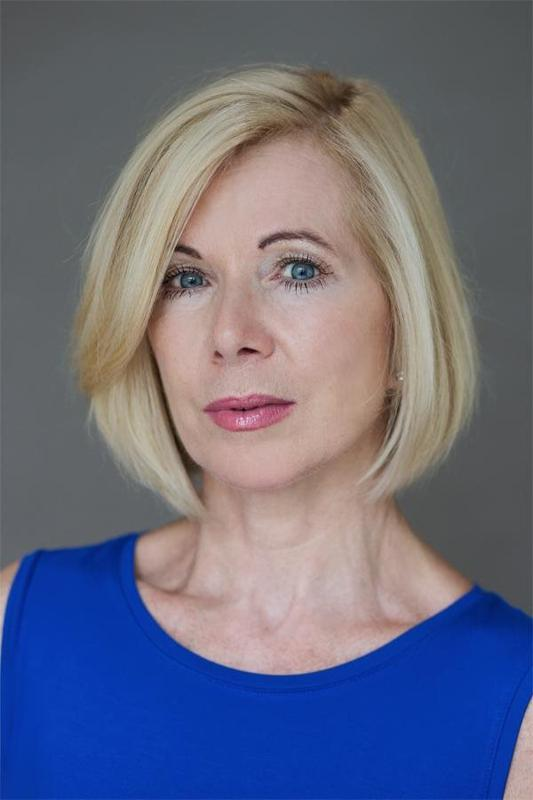
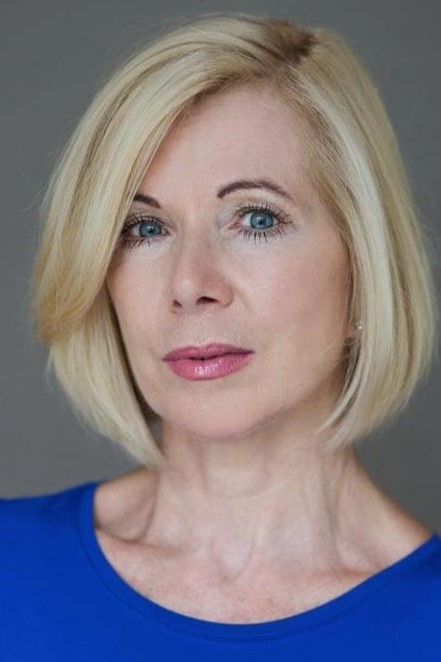
Resize hero image in about section

diff --git a/index.html b/index.html
@@ -44,11 +44,11 @@
 
         <!--First image-->
         <div id="hero-image">
-          <img src="assets/images/Joan Fleetwood blue.jpg" alt=" headshot of Joan Fleetwood in a blue dress">
+          <img id="blue-headshot" src="assets/images/Joan Fleetwood blue.jpg" alt=" headshot of Joan Fleetwood in a blue dress">
         </div>
 
         <!--About paragraph-->
-        <div id="about">
+        <div id="intro">
           <h3>About</h3>
           <p>My acting age is 45-55. I am slim with blonde hair, blue eyes and I'm 5 ft. 5 inches.
             I have trained extensively for the last six years. For three years I've been training with Robbie Byrne in Momentum Acting Studio in the Meisner Technique. It is my preferred method of acting. I've acted on stage with Umbrella Theatre in The National Gallery and The Players Theatre in

diff --git a/assets/css/style.css b/assets/css/style.css
@@ -101,10 +101,18 @@ nav {
 
 /*Main Content*/
 main {
-    background-color: var(--white);
     /* Make main element take up any surplus space to push footer down */
     flex: 1 0 auto;
     margin-top: 60px;
+}
+
+/*About section*/
+
+/*Hero image*/
+
+#blue-headshot {
+    max-width: 100%;
+    height: auto;
 }
 
 /*Footer*/
